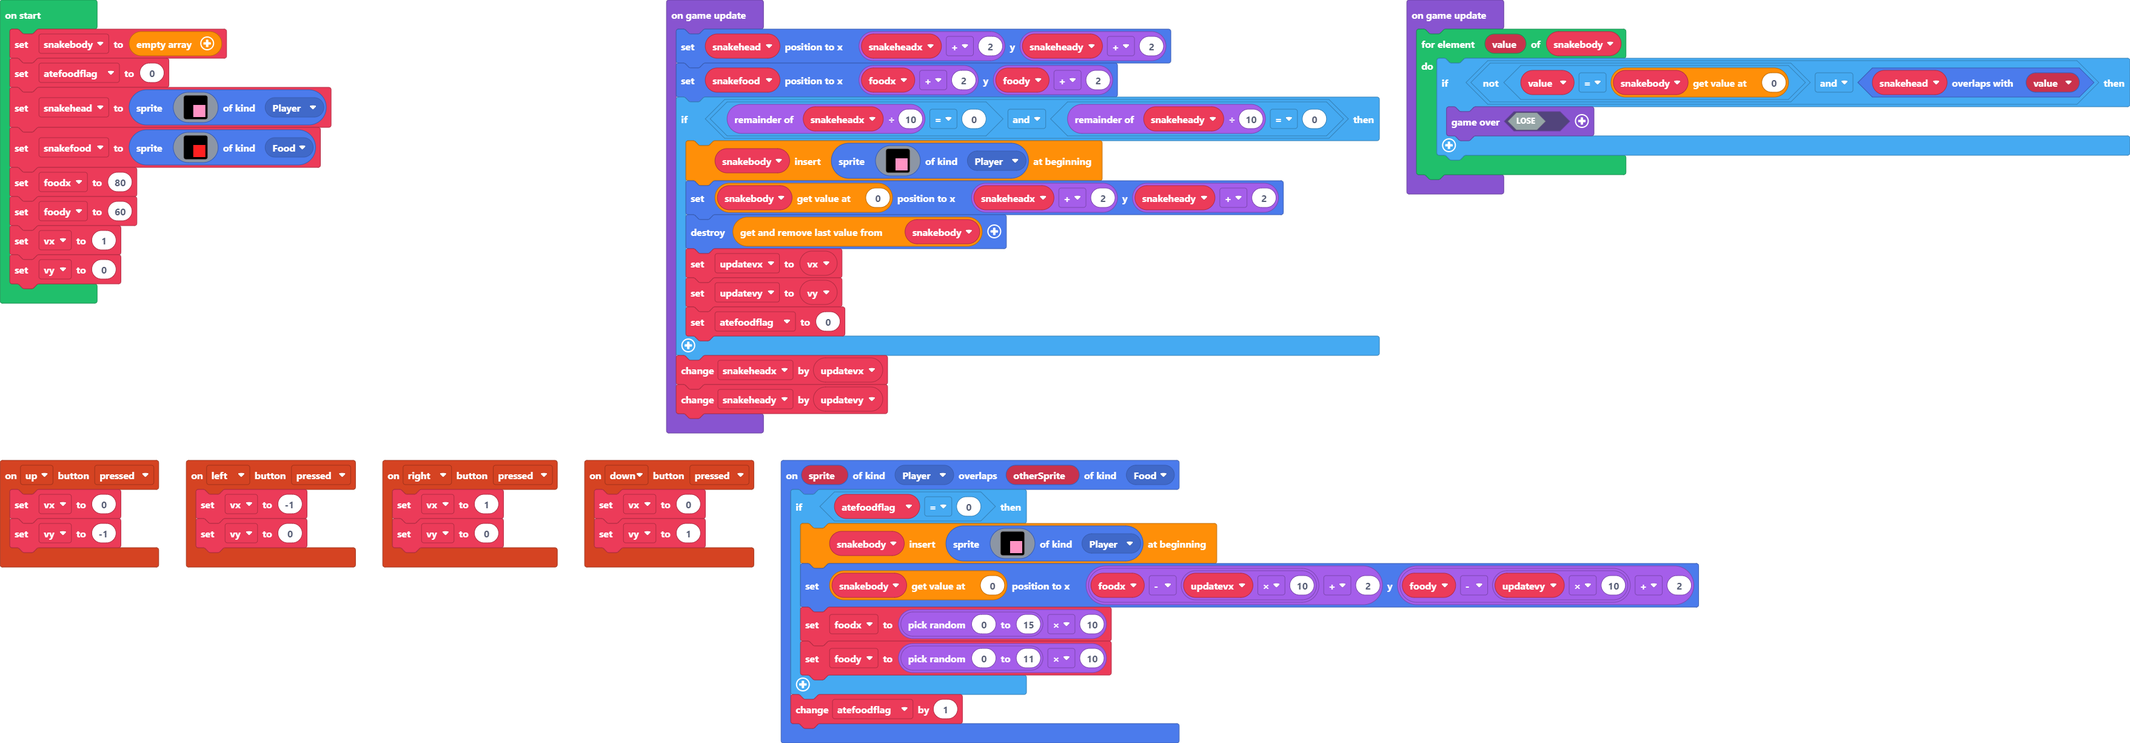
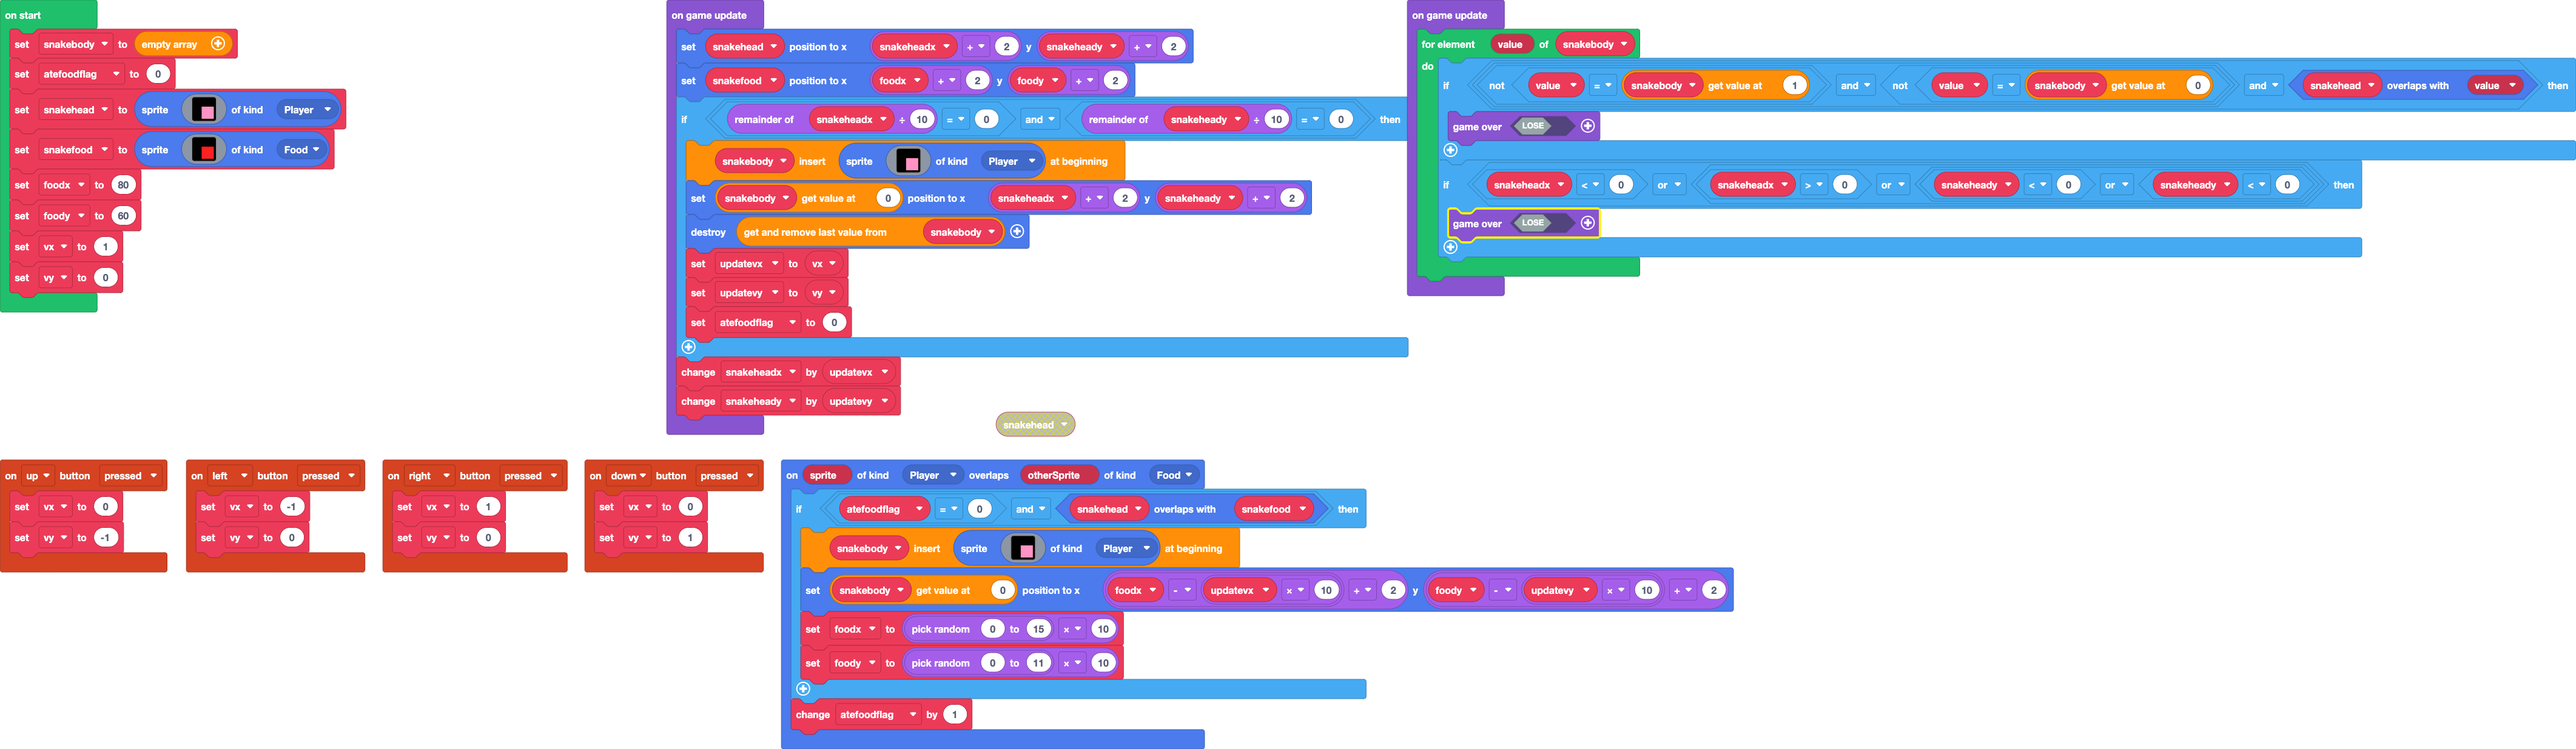
almost done

diff --git a/main.ts b/main.ts
@@ -15,7 +15,7 @@ controller.down.onEvent(ControllerButtonEvent.Pressed, function () {
     vy = 1
 })
 sprites.onOverlap(SpriteKind.Player, SpriteKind.Food, function (sprite, otherSprite) {
-    if (atefoodflag == 0) {
+    if (atefoodflag == 0 && snakehead.overlapsWith(snakefood)) {
         snakebody.unshift(sprites.create(img`
             . . . . . . . . . . . . . . . . 
             . . . . . . . . . . . . . . . . 
@@ -48,11 +48,13 @@ let vy = 0
 let vx = 0
 let foody = 0
 let foodx = 0
+let snakefood: Sprite = null
+let snakehead: Sprite = null
 let atefoodflag = 0
 let snakebody: Sprite[] = []
 snakebody = []
 atefoodflag = 0
-let snakehead = sprites.create(img`
+snakehead = sprites.create(img`
     . . . . . . . . . . . . . . . . 
     . . . . . . . . . . . . . . . . 
     . . . . . . . . . . . . . . . . 
@@ -70,7 +72,7 @@ let snakehead = sprites.create(img`
     . . . . . . 3 3 3 3 3 3 3 3 3 3 
     . . . . . . 3 3 3 3 3 3 3 3 3 3 
     `, SpriteKind.Player)
-let snakefood = sprites.create(img`
+snakefood = sprites.create(img`
     . . . . . . . . . . . . . . . . 
     . . . . . . . . . . . . . . . . 
     . . . . . . . . . . . . . . . . 
@@ -125,7 +127,10 @@ game.onUpdate(function () {
 })
 game.onUpdate(function () {
     for (let value of snakebody) {
-        if (!(value == snakebody[0]) && snakehead.overlapsWith(value)) {
+        if (!(value == snakebody[1]) && !(value == snakebody[0]) && snakehead.overlapsWith(value)) {
+            game.over(false)
+        }
+        if (snakeheadx < 0 || (snakeheadx > 0 || (snakeheady < 0 || snakeheady < 0))) {
             game.over(false)
         }
     }
